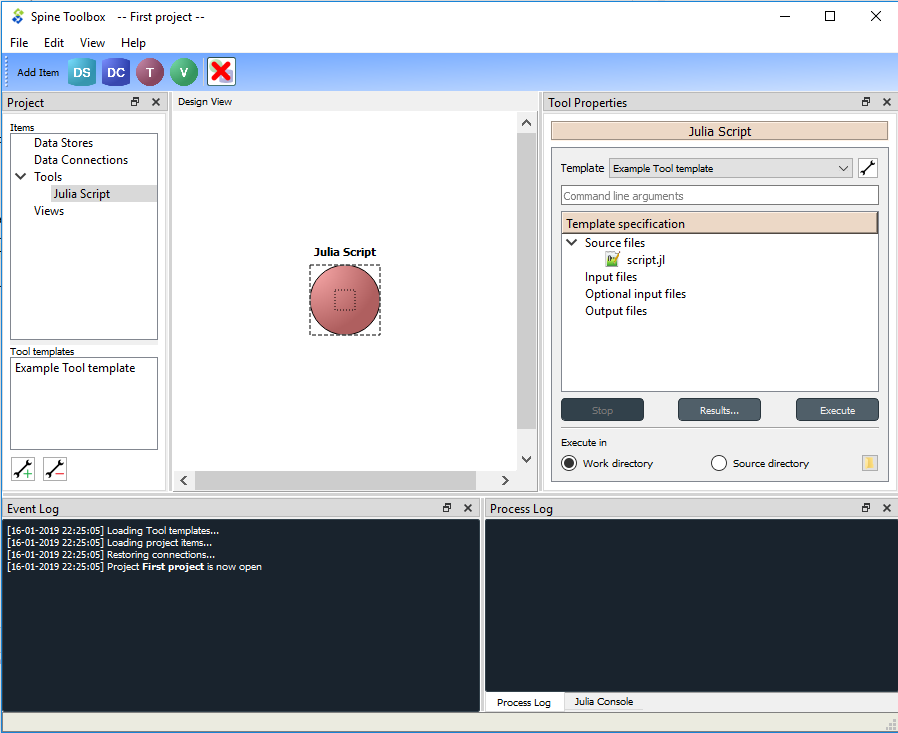
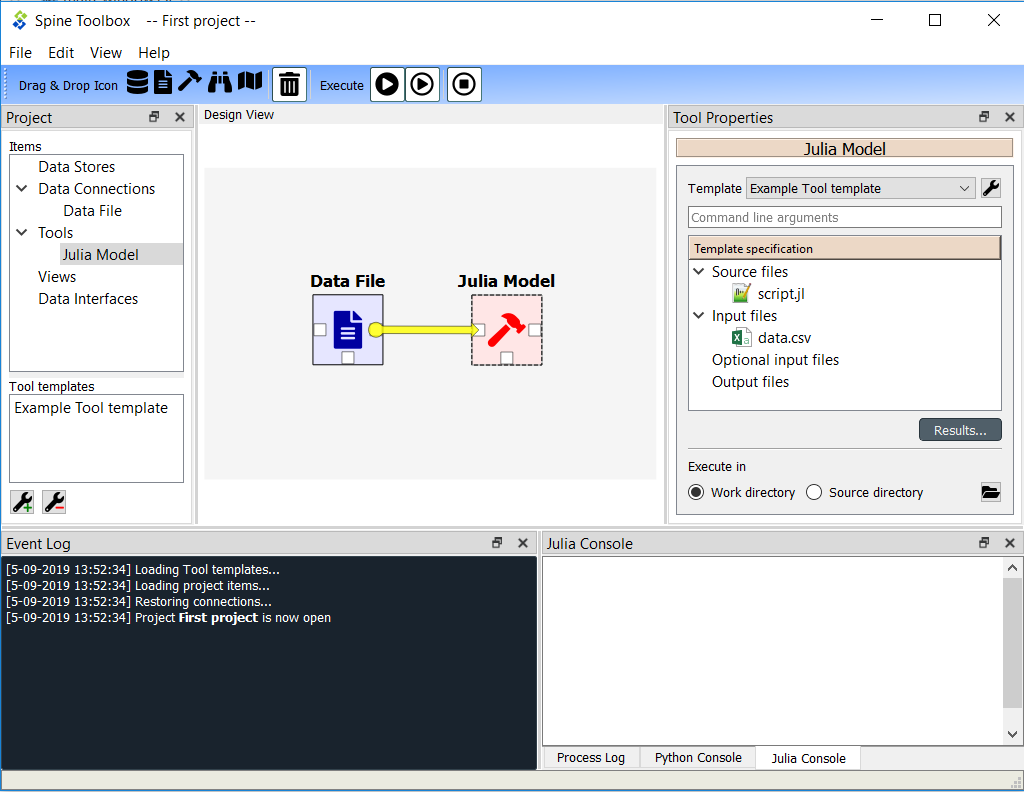
Issue #385. Executing Tools section updated in User Guide
The title is now Executing Projects but the file name is the same executing_tools.rst.

diff --git a/docs/source/executing_tools.rst b/docs/source/executing_tools.rst
@@ -3,32 +3,95 @@
 
 .. _Executing Tools:
 
-***************
-Executing Tools
-***************
+.. |play-all| image:: ../../spinetoolbox/ui/resources/project_item_icons/play-circle-solid.svg
+            :width: 16
+.. |play-selected| image:: ../../spinetoolbox/ui/resources/project_item_icons/play-circle-regular.svg
+            :width: 16
 
-This section describes how to execute Tool templates using Tools and what happens when the Execute button is clicked.
+******************
+Executing Projects
+******************
+This section describes how executing a project works. Execution happens by pressing the |play-all| or the |play-selected|
+buttons in the main window tool bar. A project consists of project items and connections (yellow arrows) that
+are visualized on the *Design View*. You use the project items and the connections to build a **Directed Acyclic
+Graph (DAG)**, with the project items as *nodes* and the connections as *edges*. A DAG is traversed using the
+**breadth-first-search** algorithm.
 
-When you have created at least one Tool template to your project, you are almost ready to execute it. As an example,
-in the figure below, when you select the *Julia Script* Tool (created previously), its properties are shown in
-the *Properties* dock widget.
+Rules of DAGs:
+
+1. A single project item with no edges is a DAG.
+2. All project items that are connected, are considered as a single DAG. It does not matter, which direction the
+   edges go. If there is a path between two nodes, they are considered as belonging to the same DAG.
+3. Loops are not allowed (this is what acyclic means).
+
+You can connect the nodes in the *Design View* how ever you want but you cannot execute the resulting DAGs if they break
+the rules above. Here is an example project with three DAGs.
+
+.. image:: img/example_dags.png
+   :align: center
+
+- DAG 1: nodes: a, b, c, d. edges: a-b, a-c, b-d, c-d
+- DAG 2: nodes: e, f. edges: e-f
+- DAG 3: nodes: g. edges: None
+
+When you press the |play-all| button, all three DAGs are executed in a row. You can see the progress and the current
+executed node in the *Event Log*. Execution order of DAG 1 is *a->b->c->d* or
+*a->c->b->d* since nodes b and c are siblings. DAG 2 execution order is *e->f* and DAG 3 is just *g*. If you have
+a DAG in your project that breaks the rules above, that DAG is skipped and the execution continues with the next DAG.
+
+You can execute a single DAG in the project by selecting a node in the desired DAG and pressing the |play-selected|
+button in the tool bar. For example, to execute only DAG 1 you can select (in *Design View* or in the project item
+list in *Project* dock widget) any of the nodes a, b, c, or d and then press the |play-selected| button.
+
+.. tip::
+   If you are not sure how execution works in your DAG, you can test the execution just like in the above picture
+   by adding and connecting empty Data Connection items and then pressing the play buttons.
+
+Executing Tools as a part of the DAG
+====================================
+All project items in the DAG are *executed*, but the real processing only happens when a Tool project item is
+executed. When you have created at least one Tool template, you can execute a Tool as part of the DAG. The Tool
+template defines the process that is depicted by the Tool project item. As an example, below we have two project
+items; *Julia Model* Tool and *Data File* Data Connection connected as a DAG with an edge between the nodes.
 
 .. image:: img/execution_julia_tool_selected.png
    :align: center
 
-In the top of the Tool Properties, there is a template drop-down menu. Since we only have a single Tool template in our
-project, it is attached automatically to the Tool. If there were more than one Tool template in the project, you could
-switch the Tool template from this drop-down menu. Below the drop-down menu, you can see the details of the Tool
-template, command line arguments, Source files (the first one is the main program file), Input files, Optional input
-files and Output files. Below these, you can see three buttons. Tool template execution starts from the *Execute*
-button. You can terminate the execution from the *Stop* button (enabled only when execution is in progress).
-*Results...* button open the selected Tools results directory in the File Explorer (all Tools have their own results
-directory). Since the Tool template type is Julia and the main program is a Julia script, Spine Toolbox starts the
-execution according to your choices in the application *Settings* (See *Settings* section in the User Guide). The below
-figure depicts the complete execution algorithm.
+Selecting the *Julia Model* shows its properties in the *Properties* dock widget. In the top of the Tool
+Properties, there is a template drop-down menu. From this drop-down menu, you can select the Tool template for this
+particular Tool item. The *Example Tool Template* tool template has been selected for the Tool *Julia Model*. Below
+the drop-down menu, you can see the details of the Tool template, command line arguments, Source files (the first
+one is the main program file), Input files, Optional input files and Output files. *Results...* button opens the
+Tool's result archive directory in the File Explorer (all Tools have their own result directory). The *Execute in*
+radio buttons control, whether this Tool is first copied to a work directory and executed there, or if the execution
+should happen in the source directory where the main program file is located.
+
+.. note::
+   The *Example Tool Template* has been modified a bit from previous sections. It now requires an *Input file*
+   *data.csv*.
+
+When you click on the |play-all| button, the execution starts from the *Data File* Data Connection. When executed,
+Data Connection items *advertise* their files and references to project items that are in the same DAG and
+executed after them. In this particular example, the *Data File* item contains a file called *data.csv* as depicted
+in the below picture.
+
+.. image:: img/execution_data_connection_selected.png
+   :align: center
+
+When it's the *Julia Model* tools turn to be executed, it checks if it finds the file *data.csv* from project items,
+that have already been executed. When the DAG is set up like this, the Tool finds the input file that it requires
+and then starts processing the Tool template starting with the main program file *script.jl*. Note that if the edge
+would be the other way around (from *Julia Model* to *Data File*) execution would start from the *Julia Model* and it
+would fail because it cannot find the required file *data.csv*. The same thing happens if there is no edge between the
+two project items. In this case the project items would be in separate DAGs.
+
+Since the Tool template type was set as *Julia* and the main program is a Julia script, Spine Toolbox starts the execution in the
+Julia Console (if you have selected this in the application *Settings*,
+See :ref:`Settings` section).
+
+Tool execution algorithm
+========================
+The below figure depicts what happens when a Tool item with a valid Tool template is executed.
 
 .. image:: img/execution_algorithm.png
    :align: center
-
-Since the example Tool template does not have any input files, optional input files, nor output files, the execution
-process is simple.
